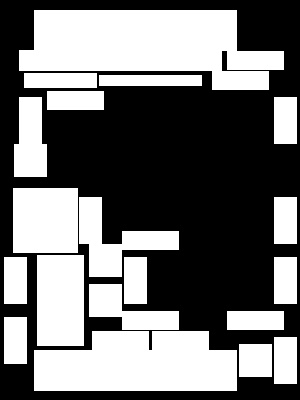
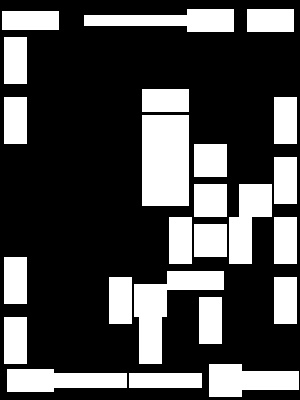
updated file

diff --git a/refined_excel_doc.py b/refined_excel_doc.py
@@ -1,6 +1,3 @@
-# diagonal coordinates
-#non zero areas removed
-# centrods added in excel
 import torch
 import cv2
 import os
@@ -71,7 +68,7 @@ def get_bbox_mask(bbox):
 
 
 if __name__ == "__main__":
-    img_path = r"D:\Personal\diksha\AS\Text2Poster-ICASSP-22\bk_image_folder\quote.png"
+    img_path = r"D:\Personal\diksha\AS\Text2Poster-ICASSP-22\bk_image_folder\ppt_coordinate.png"
     img = cv2.imread(img_path)
     width, height = img.shape[1], img.shape[0]
     img_size = (width, height)
@@ -83,15 +80,18 @@ if __name__ == "__main__":
     cv2.imwrite("./display/layout_distribution.jpg", bbox_distrib_map * 255)
 
     # Prepare the data for DataFrame
-    data = {'Region': [], 'Coordinates': [], 'Area': [], 'Centroid': []}
+    data = {'Region': [], 'Coordinates': [], 'Area': [], 'Aspect Ratio': [], 'Centroid': []}
 
-    # Calculate the area and coordinates for each region
+    # Calculate the area, aspect ratio, and coordinates for each region
     for i, region in enumerate(regions):
         # Calculate the bounding rectangle coordinates
         x, y, w, h = cv2.boundingRect(region)
 
         # Calculate the area of the region
         area = cv2.contourArea(region)
+
+        # Calculate the aspect ratio of the region
+        aspect_ratio = w / h
 
         # Calculate the centroid of the region
         centroid_x = x + (w / 2)
@@ -101,13 +101,14 @@ if __name__ == "__main__":
         data['Region'].append(i+1)
         data['Coordinates'].append(f"({x}, {y}, {x+w}, {y+h})")
         data['Area'].append(area)
+        data['Aspect Ratio'].append(aspect_ratio)
         data['Centroid'].append(f"({centroid_x}, {centroid_y})")
 
     # Create the DataFrame
-    df = pd.DataFrame(data)
+    df = pd.DataFrame(data, columns=['Region', 'Coordinates', 'Area', 'Aspect Ratio', 'Centroid'])
 
-    # Export the DataFrame to an Excel file
-    df.to_excel('./display/smooth_region_coordinates.xlsx', index=False)
+    # Export the DataFrame to a CSV file
+    df.to_csv('./display/smooth_region_coordinates.csv', index=False)
 
     # Show (salicy_map, smooth_region) in a figure.
     saliency_map_with_smooth = np.zeros((height, width, 3))
@@ -115,7 +116,7 @@ if __name__ == "__main__":
     smooth_region_mask = cv2.resize(smooth_region_mask[0], (width, height))
     saliency_map_with_smooth[:, :, 2] = smooth_region_mask / smooth_region_mask.max()
     saliency_map_with_smooth = cv2.resize(saliency_map_with_smooth, (width, height))
-    cv2.imwrite("./display/saliency_map_with-smooth-pw-13.jpg", saliency_map_with_smooth * 255)
+    cv2.imwrite("./display/new13.jpg", saliency_map_with_smooth * 255)
 
     # Show (salicy_map, predicted_layout_distribution) in a figure.
     saliency_map_with_distrib = np.zeros((height, width, 3))
